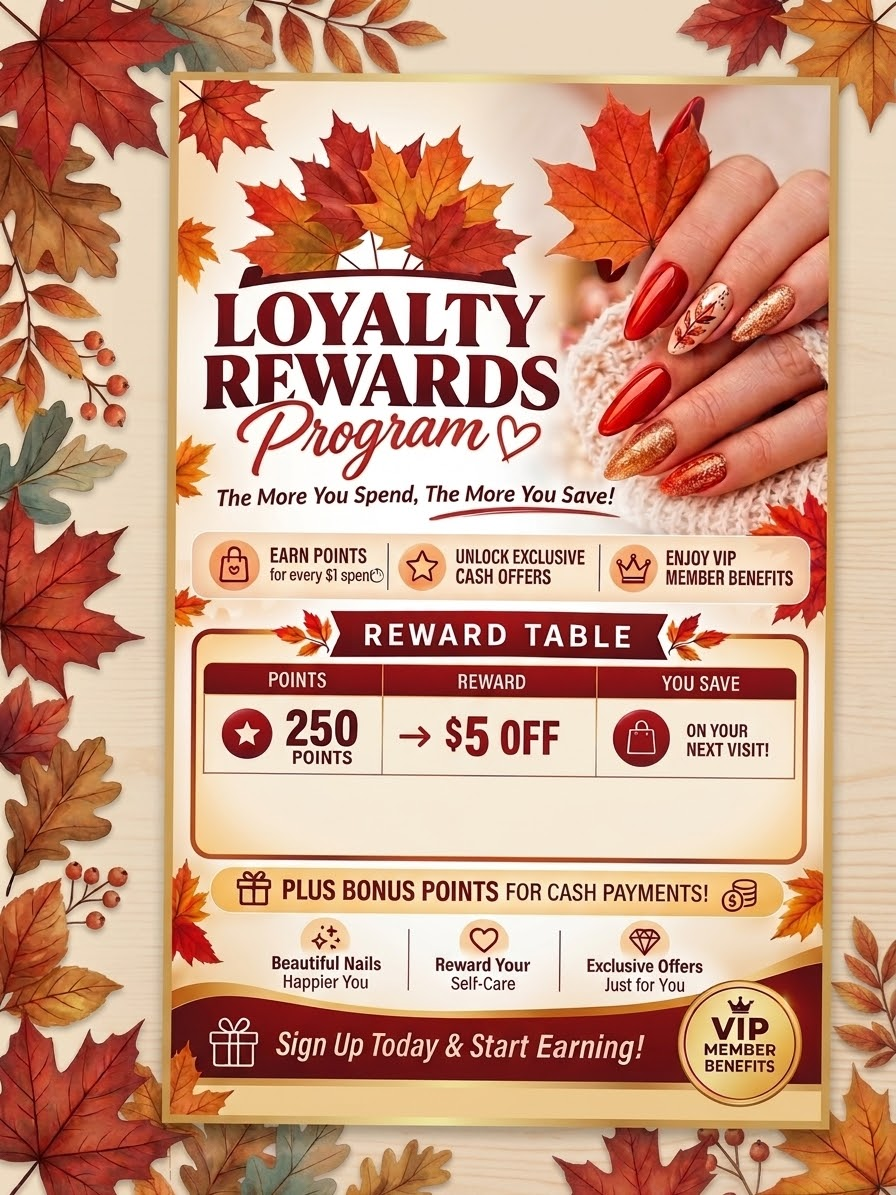
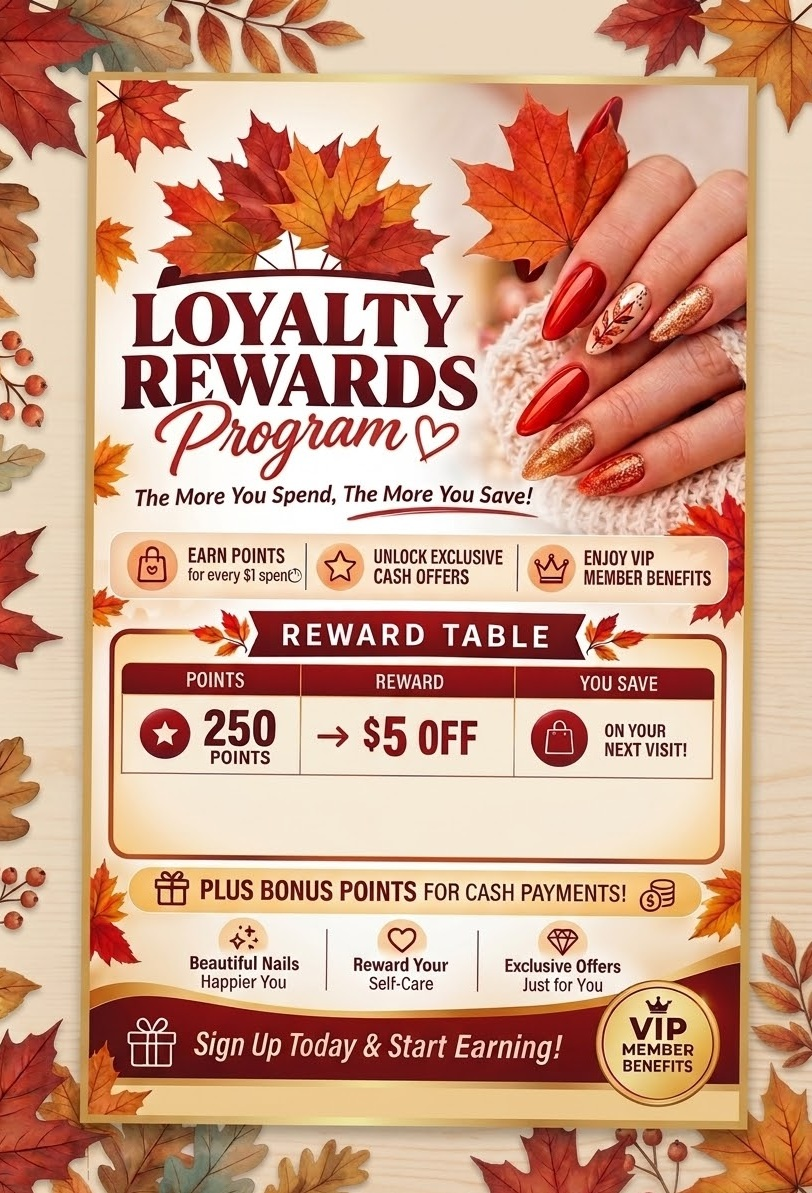
send it

diff --git a/src/components/functional/WelcomePopup.tsx b/src/components/functional/WelcomePopup.tsx
@@ -1,3 +1,119 @@
+// import { useState, useEffect, useRef } from "react";
+
+// const images = Object.keys(
+//   import.meta.glob("/public/Popup/*.(png|jpg|JPG|jpeg|webp|gif)", {
+//     eager: false,
+//   }),
+// ).map((path) => path.replace("/public", ""));
+
+// export default function WelcomePopup() {
+//   const [visible, setVisible] = useState(false);
+//   const [current, setCurrent] = useState(0);
+//   const touchStartX = useRef<number | null>(null);
+
+//   useEffect(() => {
+//     const timer = setTimeout(() => setVisible(true), 300);
+//     return () => clearTimeout(timer);
+//   }, []);
+
+//   if (!visible || images.length === 0) return null;
+
+//   const prev = () => setCurrent((i) => (i - 1 + images.length) % images.length);
+//   const next = () => setCurrent((i) => (i + 1) % images.length);
+
+//   const handleTouchStart = (e: React.TouchEvent) => {
+//     touchStartX.current = e.touches[0].clientX;
+//   };
+
+//   const handleTouchEnd = (e: React.TouchEvent) => {
+//     if (touchStartX.current === null) return;
+//     const diff = touchStartX.current - e.changedTouches[0].clientX;
+//     if (Math.abs(diff) > 40) diff > 0 ? next() : prev();
+//     touchStartX.current = null;
+//   };
+
+//   return (
+//     <div
+//       className="fixed inset-0 z-50 flex items-center justify-center bg-black/40 backdrop-blur-sm"
+//       onClick={() => setVisible(false)}
+//     >
+//       <div
+//         className="relative flex flex-col items-center justify-center"
+//         onTouchStart={handleTouchStart}
+//         onTouchEnd={handleTouchEnd}
+//       >
+//         {/* Main Image Container */}
+//         <div
+//           className="relative flex items-center justify-center w-[70vw] sm:w-[50vw] md:w-[40vw] lg:w-[30vw] h-[80vh]"
+//           onClick={(e) => e.stopPropagation()}
+//         >
+//           {/* Close Button */}
+//           <button
+//             onClick={() => setVisible(false)}
+//             className="absolute top-2 right-2 w-8 h-8 rounded-full bg-black/60 hover:bg-black/80 transition-colors text-white flex items-center justify-center shadow-md z-30"
+//             aria-label="Close"
+//           >
+//             ✕
+//           </button>
+
+//           {images.map((src, i) => {
+//             // Calculate wrapped offset for circular navigation
+//             let offset = i - current;
+//             if (offset < -1 && current === images.length - 1 && i === 0) {
+//               offset = 1;
+//             } else if (offset > 1 && current === 0 && i === images.length - 1) {
+//               offset = -1;
+//             }
+
+//             if (Math.abs(offset) > 1) return null;
+
+//             const isCurrent = offset === 0;
+
+//             return (
+//               <div
+//                 key={src}
+//                 onClick={() => !isCurrent && setCurrent(i)}
+//                 className={`
+//                   absolute transition-all duration-300 flex items-center justify-center
+//                   ${
+//                     isCurrent
+//                       ? "opacity-100 blur-0 cursor-default z-10 max-h-[80vh] max-w-full"
+//                       : `opacity-50 blur-sm cursor-pointer scale-90 z-0 max-h-[50vh]
+//                          ${offset === -1 ? "-translate-x-[60%]" : "translate-x-[60%]"}`
+//                   }
+//                 `}
+//               >
+//                 <img
+//                   src={src}
+//                   alt={`Popup ${i + 1}`}
+//                   className={`
+//                     block object-contain rounded-2xl border-4 transition-all duration-300 max-h-[75vh] max-w-[70vw] sm:max-w-[50vw] md:max-w-[40vw] lg:max-w-[30vw] w-auto h-auto
+//                     ${isCurrent ? "border-primary/80" : "border-primary/30"}
+//                   `}
+//                 />
+//               </div>
+//             );
+//           })}
+//         </div>
+
+//         {/* Dots */}
+//         {images.length > 1 && (
+//           <div className="absolute -bottom-6 left-1/2 -translate-x-1/2 flex gap-2">
+//             {images.map((_, i) => (
+//               <button
+//                 key={i}
+//                 onClick={() => setCurrent(i)}
+//                 className={`w-2 h-2 rounded-full transition-colors ${
+//                   i === current ? "bg-primary" : "bg-white/60"
+//                 }`}
+//               />
+//             ))}
+//           </div>
+//         )}
+//       </div>
+//     </div>
+//   );
+// }
 import { useState, useEffect, useRef } from "react";
 
 const images = Object.keys(
@@ -86,10 +202,7 @@ export default function WelcomePopup() {
                 <img
                   src={src}
                   alt={`Popup ${i + 1}`}
-                  className={`
-                    block object-contain rounded-2xl border-4 transition-all duration-300 max-h-[75vh] max-w-[70vw] sm:max-w-[50vw] md:max-w-[40vw] lg:max-w-[30vw] w-auto h-auto
-                    ${isCurrent ? "border-primary/80" : "border-primary/30"}
-                  `}
+                  className="block object-contain rounded-2xl transition-all duration-300 max-h-[75vh] max-w-[70vw] sm:max-w-[50vw] md:max-w-[40vw] lg:max-w-[30vw] w-auto h-auto"
                 />
               </div>
             );

diff --git a/src/pages/public/ipad/index.tsx b/src/pages/public/ipad/index.tsx
@@ -155,7 +155,7 @@ function IpadPage() {
 
         {/* Footer */}
         <div className="py-12 px-4 sm:px-8 mt-10">
-          <div className="max-w-[1400px] mx-auto grid grid-cols-1 md:grid-cols-3 gap-6 sm:gap-8">
+          <div className="max-w-[1400px] mx-auto grid grid-cols-1 md:grid-cols-2 gap-6 sm:gap-8">
             {/* Contact Info */}
             <div className="flex flex-col items-center text-center">
               <h3 className="text-xl font-bold mb-4">Contact Us</h3>
@@ -164,15 +164,6 @@ function IpadPage() {
               <p>Call: (281) 242-1015</p>
               <p>Text: (281) 242-1015</p>
               <p>Email: michellevnails@gmail.com</p>
-            </div>
-
-            {/* Operating Hours */}
-            <div className="flex flex-col items-center text-center">
-              <h3 className="text-xl font-bold mb-4">Operating Hours</h3>
-              <ul>
-                <li>Mon – Sat: 9:00 AM – 7:00 PM</li>
-                <li>Sun: 10:00 AM – 6:00 PM</li>
-              </ul>
             </div>
 
             {/* Social Media */}
